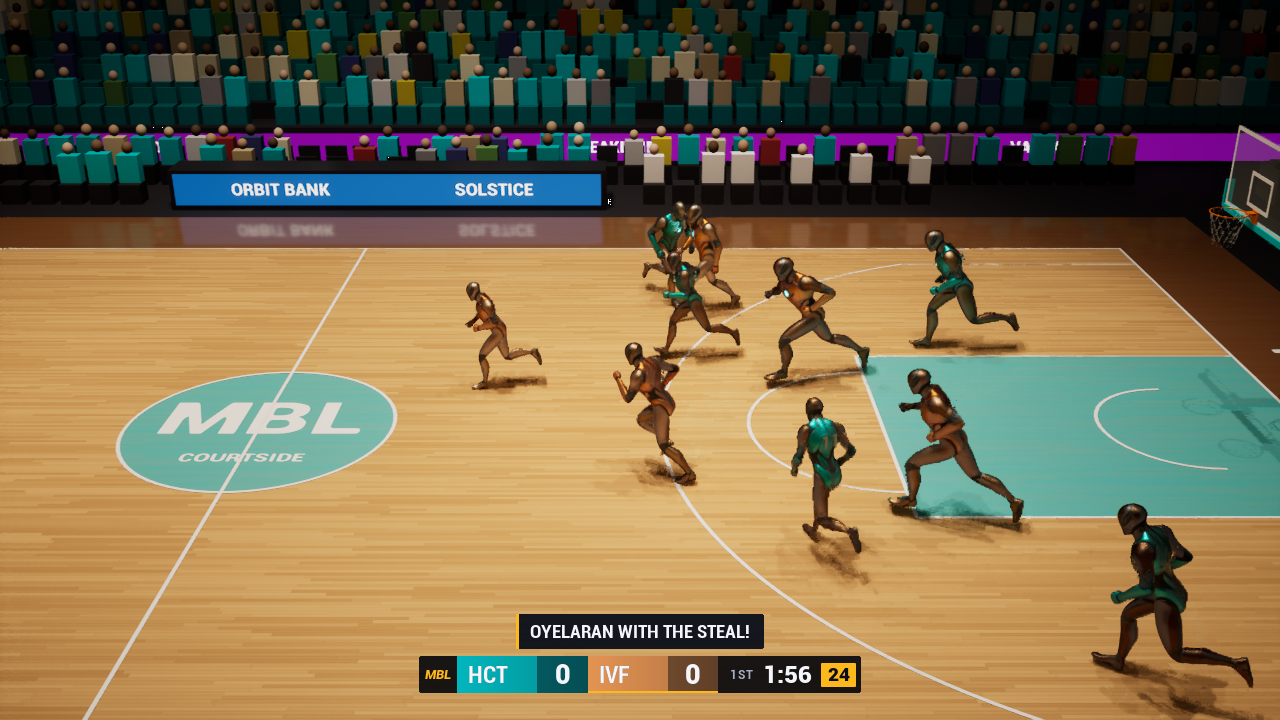
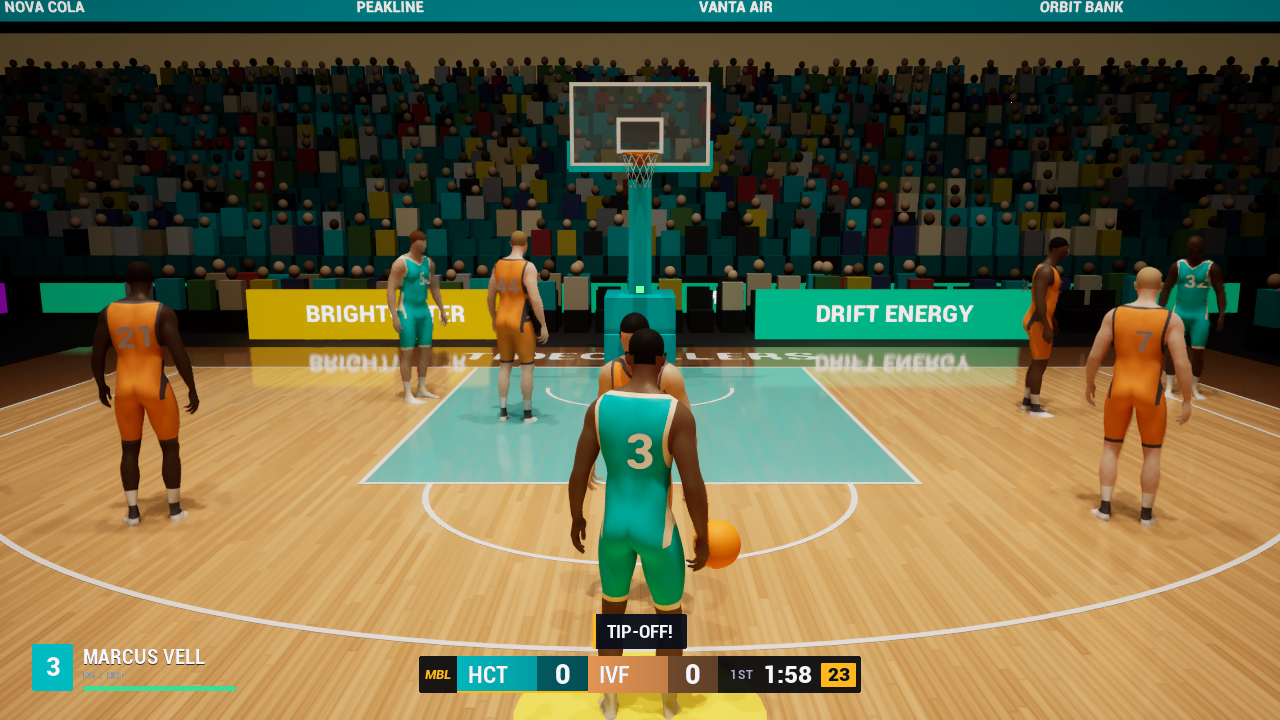
v0.2.0: human players screenshot and size

diff --git a/index.html b/index.html
@@ -86,7 +86,7 @@
         <a class="btn ghost" id="download" href="https://github.com/DoubleA-Digital/Courtside-Download/releases/latest">Download for Windows</a>
         <a class="btn ghost" href="#controls">Controls</a>
       </div>
-      <div class="note">Free &middot; the browser edition runs on school computers, no install &middot; the Windows edition (about 375 MB) has the full Unreal Engine graphics</div>
+      <div class="note">Free &middot; the browser edition runs on school computers, no install &middot; the Windows edition (about 930 MB) has the full Unreal Engine graphics and MetaHuman players</div>
       <div class="hero-shot"><img src="images/arena.png" alt="5v5 Play Now in the arena: players on hardwood under the lights with a packed crowd"></div>
     </header>
 
